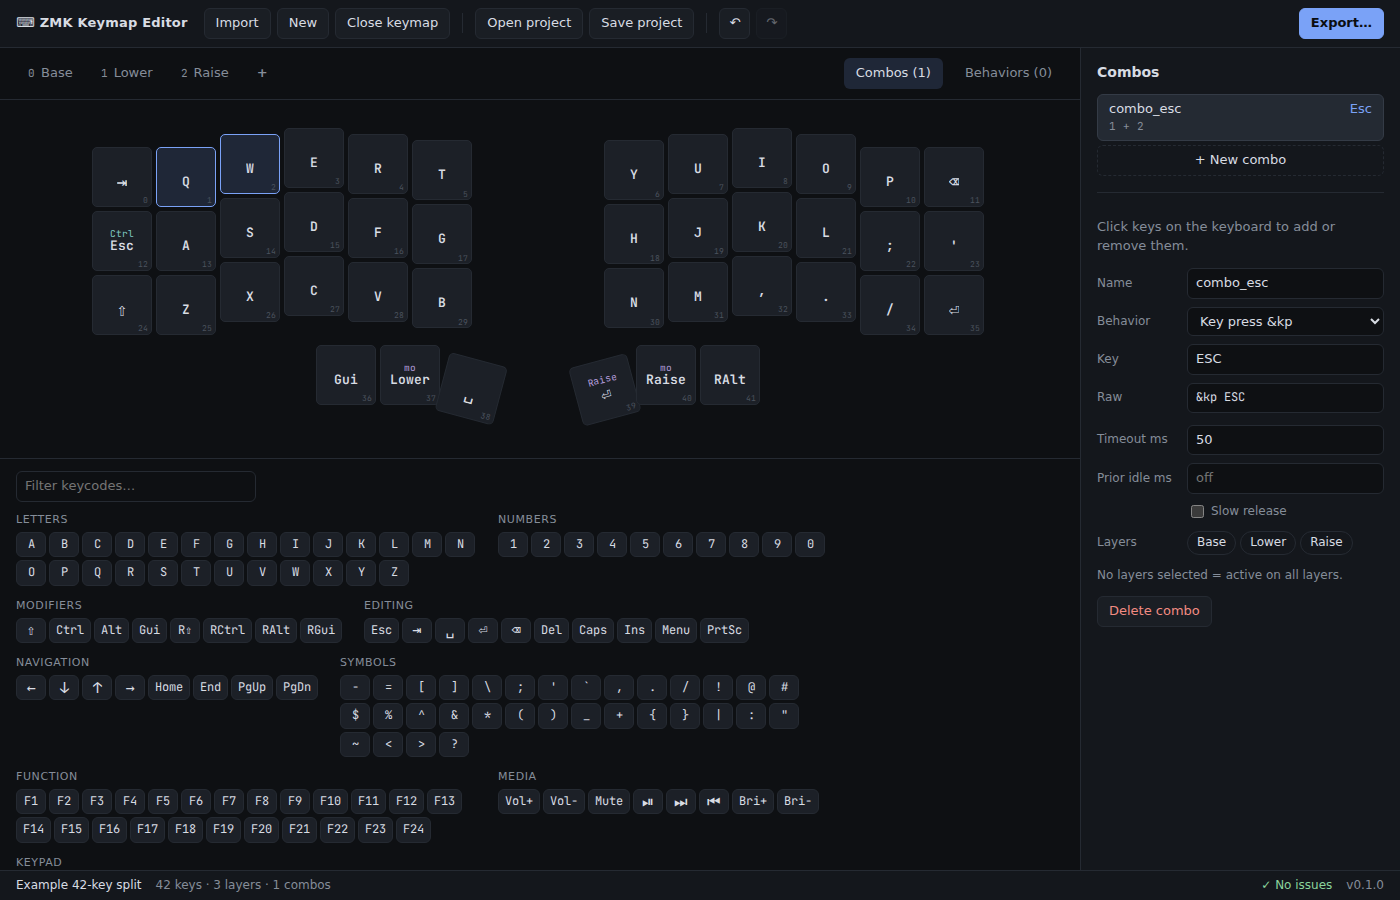
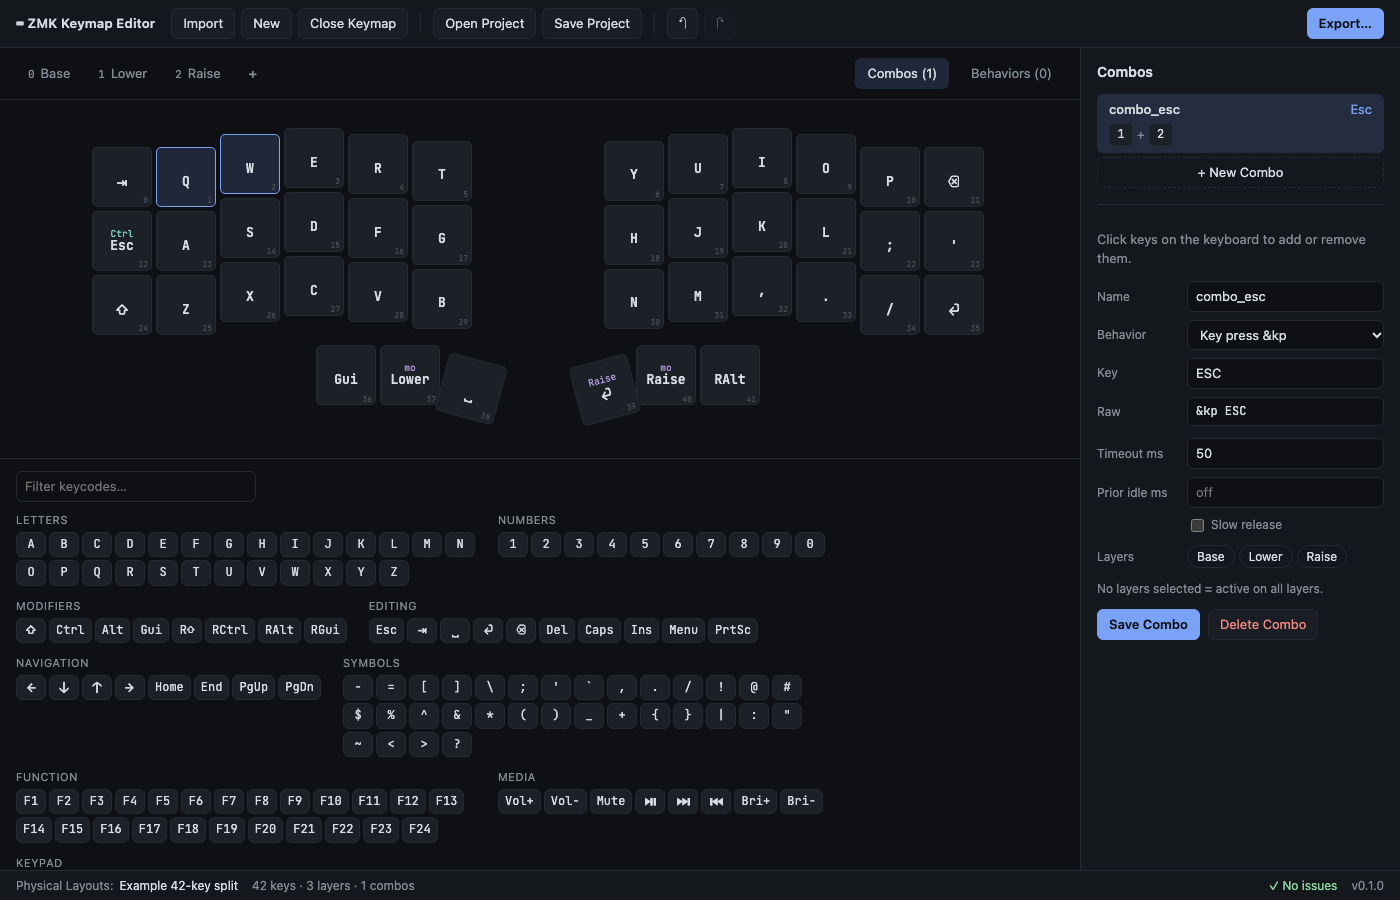
Bring the user guide up to date with the merged app
- Screenshots regenerated with `npm run screenshots` now that every UI PR
  this guide anticipated has merged (Title Case, Load, Save Combo, keycaps
  with "+", dialog ✕, Physical Layouts label, Clear Warnings).
- QA 08 (Import from a GitHub repository) has passed, so it gets a
  section and leaves the "still in QA" list. The steps follow QA 08 and
  the current dialog: URL field → Load → Import Selected, public repos
  only, 60 listings an hour.
- Mod-morph: the defaults already are &kp COMMA / &kp SEMI with LShift and
  RShift (keep-mods empty, so Shift+comma types ";"); the steps no longer
  ask you to set them.

diff --git a/docs/guide/README.md b/docs/guide/README.md
@@ -9,8 +9,8 @@ Open it at <https://ulkden.github.io/zmk-yakme/>. Nothing you load leaves your b
 [Checking your work](#checking-your-work) · [Exporting](#exporting) ·
 [Saving your work](#saving-your-work) · [Shortcuts cheat sheet](#shortcuts-cheat-sheet)
 
-Sections are added as each feature passes [manual QA](../QA.md). Importing from a GitHub repository,
-advanced combo options, renaming and deleting behaviors, and added `#include`s are still in QA.
+Sections are added as each feature passes [manual QA](../QA.md). Advanced combo options, renaming and
+deleting behaviors, and added `#include`s are still in QA.
 
 ## Getting started
 
@@ -59,6 +59,17 @@ version's release notes.
 - **Paste text:** paste a file's contents into the text box, then click **Load**.
 - **QMK and KLE layouts:** paste a QMK `info.json` or keyboard-layout-editor.com **Raw data**. With no
   keymap loaded, KLE legends become the starting keys (`Q` → Q, `Shift` → ⇧).
+
+### Import from a GitHub repository
+
+1. Click **Import** and paste your zmk-config's address into the URL field, e.g.
+   `https://github.com/you/zmk-config`, or a folder such as `…/tree/main/config`. Click **Load**.
+2. The keymap and layout files are listed with their kind, and the likely keymap and layout are already
+   checked. Long paths are shortened in the middle; hover over one to see all of it.
+3. Change the checks if needed and click **Import Selected**. The files are imported together.
+
+- Only public repositories can be listed, and GitHub allows 60 listings an hour from your network. A
+  missing or private repository, or the limit, is explained in the dialog.
 
 ### When a file can't be imported
 
@@ -158,8 +169,9 @@ highlighted while the behavior is selected.
 
 A mod-morph sends one binding normally and another while chosen modifiers are held.
 
-1. Click **+ Mod-Morph**.
-2. Set **Normal** to `&kp COMMA` and **With mods** to `&kp SEMI`; pick **LShift** under **Mods**.
+1. Click **+ Mod-Morph**. It starts as `&mm`: **Normal** `&kp COMMA`, **With mods** `&kp SEMI`, and
+   **LShift** and **RShift** under **Mods**, so Shift+comma types a semicolon.
+2. Change the bindings and mods as you like.
 3. Use it on a key: choose it in the Behavior list, or type `&mm` in **Raw**.
 
 ### Macro
